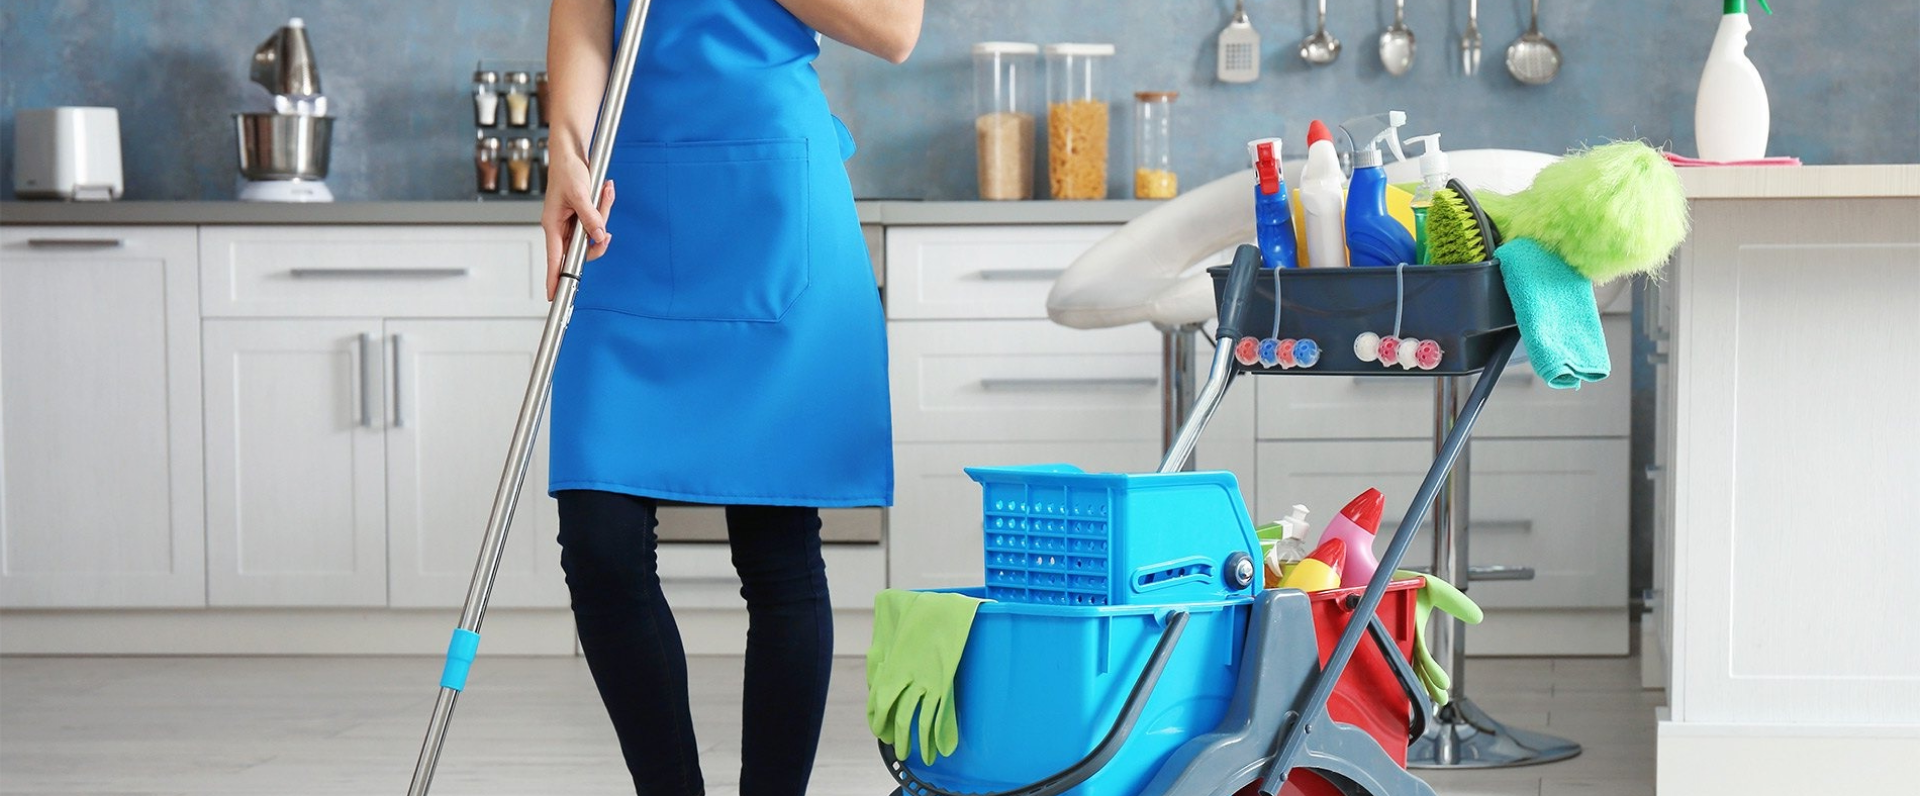
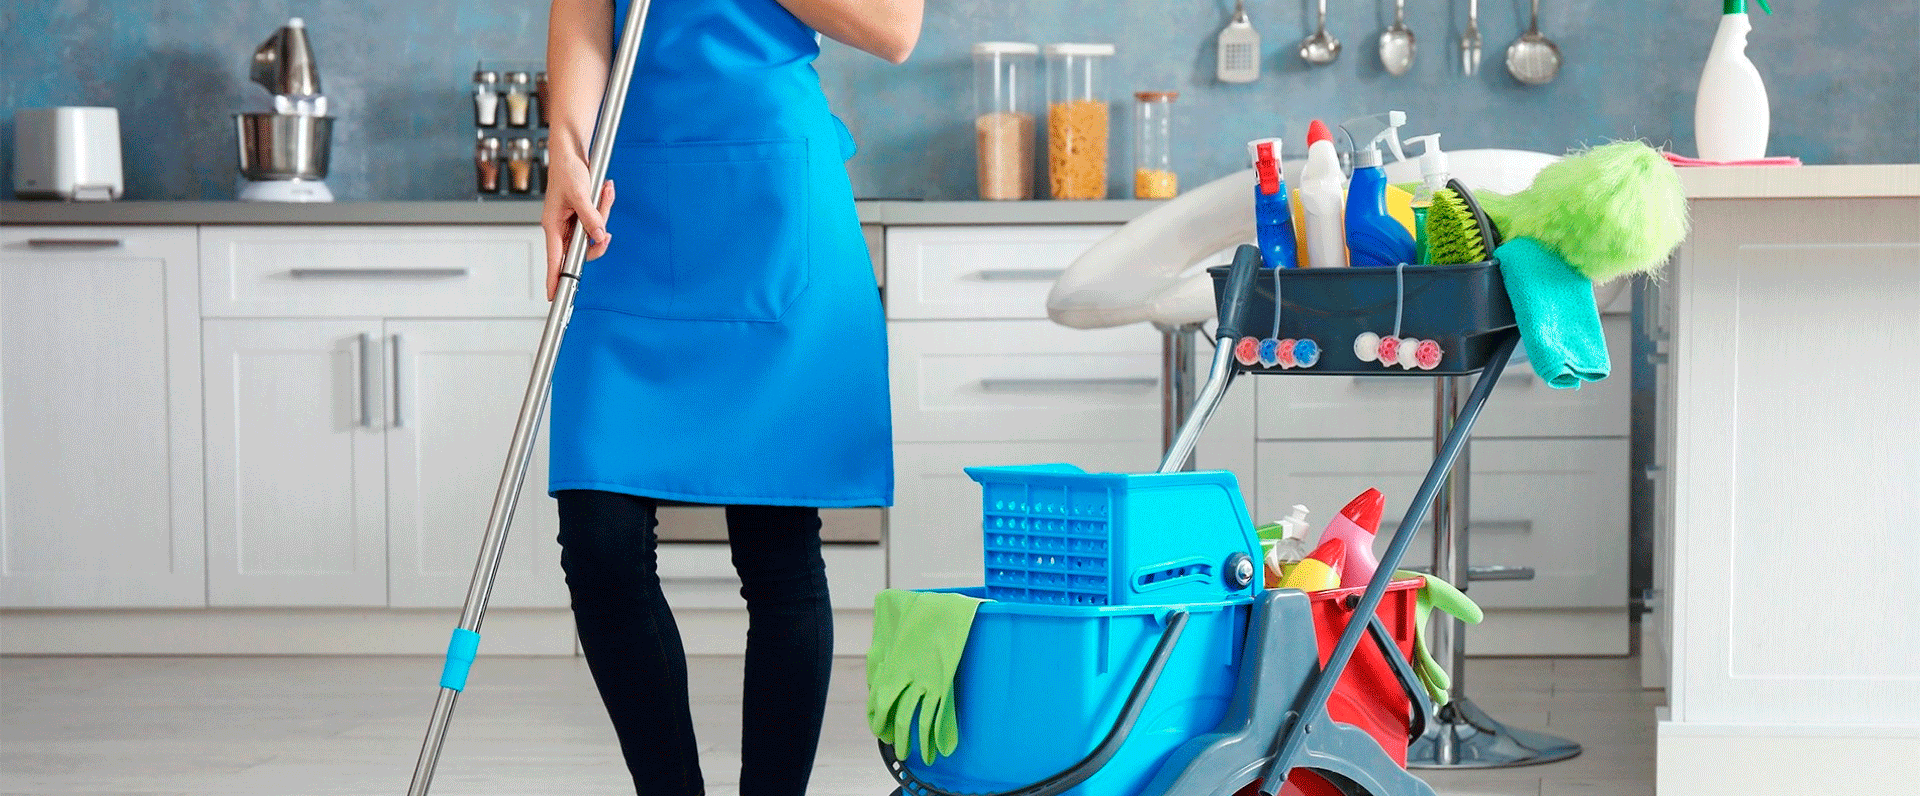
fixed: reduced the size of the images, fixed the names "YellowButton" to "CustomButton"

diff --git a/components/UI/CustomButton/CustomButton.js b/components/UI/CustomButton/CustomButton.js
@@ -1,7 +1,7 @@
 import Link from 'next/link';
-import styles from '@/components/UI/YellowButton/YellowButton.module.scss';
+import styles from '@/components/UI/CustomButton/CustomButton.module.scss';
 
-const YellowButton = ({
+const CustomButton = ({
   label,
   icon = null,
   size = 'md',
@@ -28,12 +28,12 @@ const YellowButton = ({
     return (
       <Link
         href={href}
-        className={`${styles.yellowButton} ${styles[`yellowButton--${size}`]}`}
+        className={`${styles.сustomButton} ${styles[`сustomButton--${size}`]}`}
         onClick={handleClick}
       >
-        <span className={styles.yellowButton__label}>{label}</span>
+        <span className={styles.сustomButton__label}>{label}</span>
         {icon && (
-          <span className={styles.yellowButton__icon}>
+          <span className={styles.сustomButton__icon}>
             <img src={icon.src} alt={label} />
           </span>
         )}
@@ -46,12 +46,12 @@ const YellowButton = ({
       <a
         href={download}
         download
-        className={`${styles.yellowButton} ${styles[`yellowButton--${size}`]}`}
+        className={`${styles.сustomButton} ${styles[`сustomButton--${size}`]}`}
         onClick={handleClick}
       >
-        <span className={styles.yellowButton__label}>{label}</span>
+        <span className={styles.сustomButton__label}>{label}</span>
         {icon && (
-          <span className={styles.yellowButton__icon}>
+          <span className={styles.сustomButton__icon}>
             <img src={icon.src} alt={label} />
           </span>
         )}
@@ -61,13 +61,13 @@ const YellowButton = ({
 
   return (
     <button
-      className={`${styles.yellowButton} ${styles[`yellowButton--${size}`]}`}
+      className={`${styles.сustomButton} ${styles[`сustomButton--${size}`]}`}
       onClick={handleClick}
       disabled={disabled}
     >
-      <span className={styles.yellowButton__label}>{label}</span>
+      <span className={styles.сustomButton__label}>{label}</span>
       {icon && (
-        <span className={styles.yellowButton__icon}>
+        <span className={styles.сustomButton__icon}>
           <img src={icon.src} alt={label} />
         </span>
       )}
@@ -75,4 +75,4 @@ const YellowButton = ({
   );
 };
 
-export default YellowButton;
+export default CustomButton;

diff --git a/components/Header/Header.js b/components/Header/Header.js
@@ -3,7 +3,7 @@ import Link from 'next/link';
 import Image from 'next/image';
 import { useTranslation } from 'next-i18next';
 import { menuItems } from '@/components/Header/Constants';
-import YellowButton from '@/components/UI/YellowButton/YellowButton';
+import CustomButton from '@/components/UI/CustomButton/CustomButton';
 import mapSrc from '@/public/images/Header/map_Icon.svg';
 import postSrc from '@/public/images/Header/post_Icon.svg';
 import logoSrc from '@/public/images/Header/logo.svg';
@@ -90,7 +90,7 @@ export function Header() {
           </Link>
           <div className={styles.catalogAndSearch}>
             <div className={styles.catalogButton}>
-              <YellowButton
+              <CustomButton
                 label={t('Catalog')}
                 size="md"
                 href="/catalog"
@@ -128,7 +128,7 @@ export function Header() {
           </div>
 
           <div className={styles.priceListButton}>
-            <YellowButton
+            <CustomButton
               icon={priceListIconSrc}
               label={t('PriceList')}
               size="md"
@@ -276,7 +276,7 @@ export function Header() {
           </div>
 
           <div className={styles.MobileMenuButton}>
-            <YellowButton
+            <CustomButton
               icon={priceListIconSrc}
               label={t('PriceList')}
               size="lg"

diff --git a/components/Footer/Footer.js b/components/Footer/Footer.js
@@ -5,7 +5,7 @@ import { useTranslation } from 'next-i18next';
 import LanguageSwitcher from '@/components/Footer/LanguageSwitcher';
 import EmailInput from '@/components/Footer/EmailInput';
 import useWindowSize from '@/core/hooks/useWindowSize';
-import YellowButton from '@/components/UI/YellowButton/YellowButton';
+import CustomButton from '@/components/UI/CustomButton/CustomButton';
 import down_icon from '@/public/images/Footer/download_icon.png';
 import SwitchThemesButton from '@/components/UI/SwitchThemeButton/SwitchThemesButton';
 import ContextTheme from '@/core/hooks/ContextTheme';
@@ -33,7 +33,7 @@ const Footer = () => {
             </Link>
             {isMobile ? (
               <div className={styles.button}>
-                <YellowButton
+                <CustomButton
                   icon={down_icon}
                   label={t('PriceList')}
                   size="sm"
@@ -78,7 +78,7 @@ const Footer = () => {
             {isMobile ? null : (
               <div>
                 <h4 className={styles.priceList}>{t('DowloadPrice')}:</h4>
-                <YellowButton
+                <CustomButton
                   icon={down_icon}
                   label={t('PriceList')}
                   size="md"

diff --git a/components/Test/Test.js b/components/Test/Test.js
@@ -1,25 +1,25 @@
 import logo from '@/public/images/Products/telejka.svg';
-import YellowButton from '../UI/YellowButton/YellowButton';
+import CustomButton from '../UI/CustomButton/CustomButton';
 
 export default function Test() {
   return (
     <section>
-      <YellowButton label="В КАТАЛОГ" size="lg" href="/catalog" />
-      <YellowButton
+      <CustomButton label="В КАТАЛОГ" size="lg" href="/catalog" />
+      <CustomButton
         label="ПРИНЯТЬ УЧАСТИЕ"
         size="lg"
         href="/catalog"
         icon={logo}
       />
 
-      <YellowButton
+      <CustomButton
         label="Каталог"
         size="md"
         download="/path/to/pricelist.pdf"
         icon={logo}
       />
 
-      <YellowButton
+      <CustomButton
         label="В КОРЗИНУ"
         size="sm"
         action="add-to-cart"

diff --git a/components/Product/ProductCardDetails/ProductDetails.js b/components/Product/ProductCardDetails/ProductDetails.js
@@ -2,7 +2,7 @@ import { motion } from 'framer-motion';
 import { useState } from 'react';
 import Image from 'next/image';
 import logo from '@/public/images/Products/telejka.svg';
-import YellowButton from '@/components/UI/YellowButton/YellowButton';
+import CustomButton from '@/components/UI/CustomButton/CustomButton';
 import shareLogo from '@/public/images/ProductDetails/share.svg';
 import downloadLogo from '@/public/images/ProductDetails/download.svg';
 import style from '@/components/Product/ProductCardDetails/ProductDetails.module.css';
@@ -90,7 +90,7 @@ const ProductDetails = ({ product }) => {
                 +
               </button>
             </div>
-            <YellowButton
+            <CustomButton
               label={t('AddToCart')}
               size="md"
               action="add-to-cart"

diff --git a/components/Banner/Banner.js b/components/Banner/Banner.js
@@ -1,6 +1,6 @@
 import { useTranslation } from 'next-i18next';
 import { bannerAdvantages } from '@/components/Banner/constants.js';
-import YellowButton from '../UI/YellowButton/YellowButton';
+import CustomButton from '../UI/CustomButton/CustomButton';
 import styles from '@/components/Banner/Banner.module.css';
 
 export default function Banner() {
@@ -16,7 +16,7 @@ export default function Banner() {
             <span>{t('Kokchetav')}</span>
           </h2>
           <div className={styles.catalogButton}>
-            <YellowButton label={t('ToKatalog')} size="lg" href="/catalog" />
+            <CustomButton label={t('ToKatalog')} size="lg" href="/catalog" />
           </div>
           <div className={styles.features}>
             {bannerAdvantages.map((advantage) => (

diff --git a/components/PromotionSwiper/PromotionSwiper.js b/components/PromotionSwiper/PromotionSwiper.js
@@ -4,7 +4,7 @@ import 'swiper/css/pagination';
 import 'swiper/css/navigation';
 import { Pagination, Navigation } from 'swiper/modules';
 import { useTranslation } from 'next-i18next';
-import YellowButton from '@/components/UI/YellowButton/YellowButton';
+import CustomButton from '@/components/UI/CustomButton/CustomButton';
 import {
   promotionSlide,
   partnerSlide,
@@ -41,7 +41,7 @@ export default function PromotionSwiper() {
                 <p className={styles.slideDescription}>
                   {t(slide.description)}
                 </p>
-                <YellowButton
+                <CustomButton
                   label={t(slide.buttonText)}
                   size="lg"
                   href={slide.link}

diff --git a/components/Product/ProductCard/ProductCard.js b/components/Product/ProductCard/ProductCard.js
@@ -1,6 +1,6 @@
 import Image from 'next/image';
 import telejka from '@/public/images/Products/telejka.svg';
-import YellowButton from '@/components/UI/YellowButton/YellowButton';
+import CustomButton from '@/components/UI/CustomButton/CustomButton';
 import { useTranslation } from 'next-i18next';
 import styles from '@/components/Product/ProductCard/ProductCard.module.css';
 
@@ -47,7 +47,7 @@ const ProductCard = ({
       <div className={styles.priceAndButton}>
         <p className={styles.productPrice}>{price} ₸</p>
         <div className={styles.addToCartButton}>
-          <YellowButton
+          <CustomButton
             label={t('AddToCart')}
             size="sm"
             action="add-to-cart"

diff --git a/components/UI/CustomButton/CustomButton.module.scss b/components/UI/CustomButton/CustomButton.module.scss
@@ -1,4 +1,4 @@
-.yellowButton {
+.сustomButton {
   display: inline-flex;
   align-items: center;
   justify-content: center;
